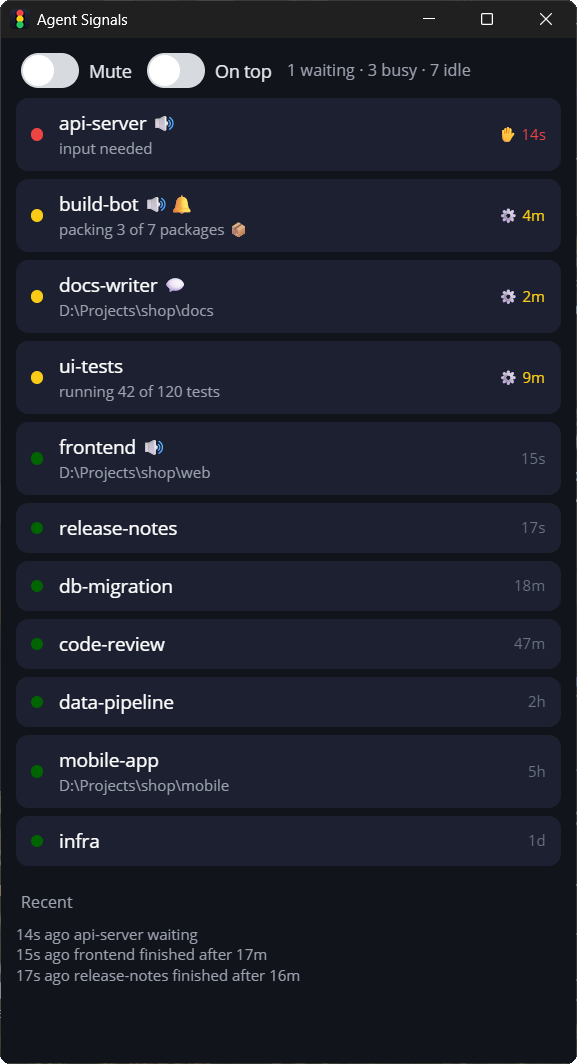
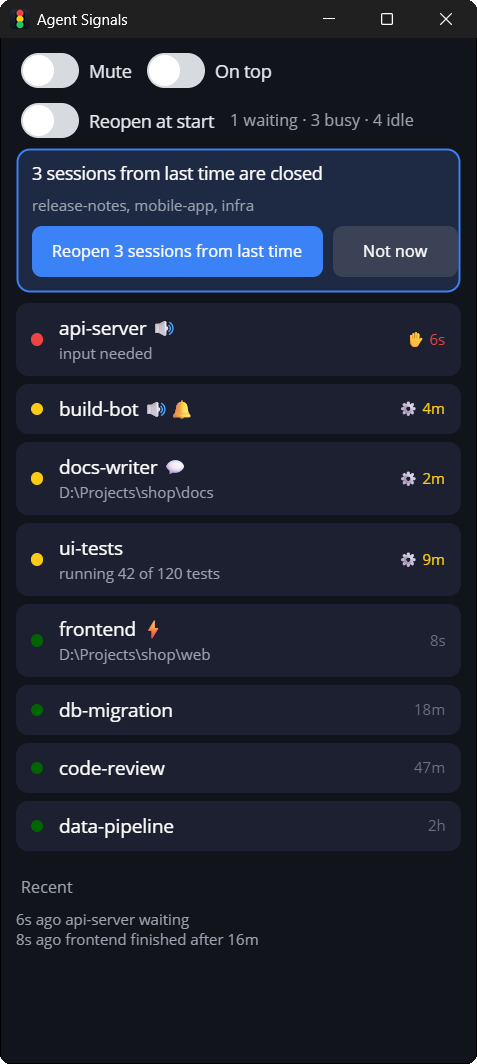
Version 0.2.0: reopen sessions after a reboot
README screenshot shows the reopen banner and the Reopen at start switch.

diff --git a/README.md b/README.md
@@ -15,7 +15,7 @@ through tabs to find out.
 Nothing to configure in Claude Code: the app reads the list of sessions Claude Code already keeps.
 A small Windows app written in Rust, its UI drawn with [DrawnUi.Rust](https://github.com/DrawnUi/DrawnUi.Rust).
 
-<img src="docs/screenshot.png" alt="Agent Signals: sessions waiting (red), working (yellow) and idle (green), with their signal icons and recent events" width="420">
+<img src="docs/screenshot.png" alt="Agent Signals: sessions closed by a reboot offered for reopening, sessions waiting (red), working (yellow) and idle (green) with their signal icons, and recent events" width="420">
 
 ## The window
 
